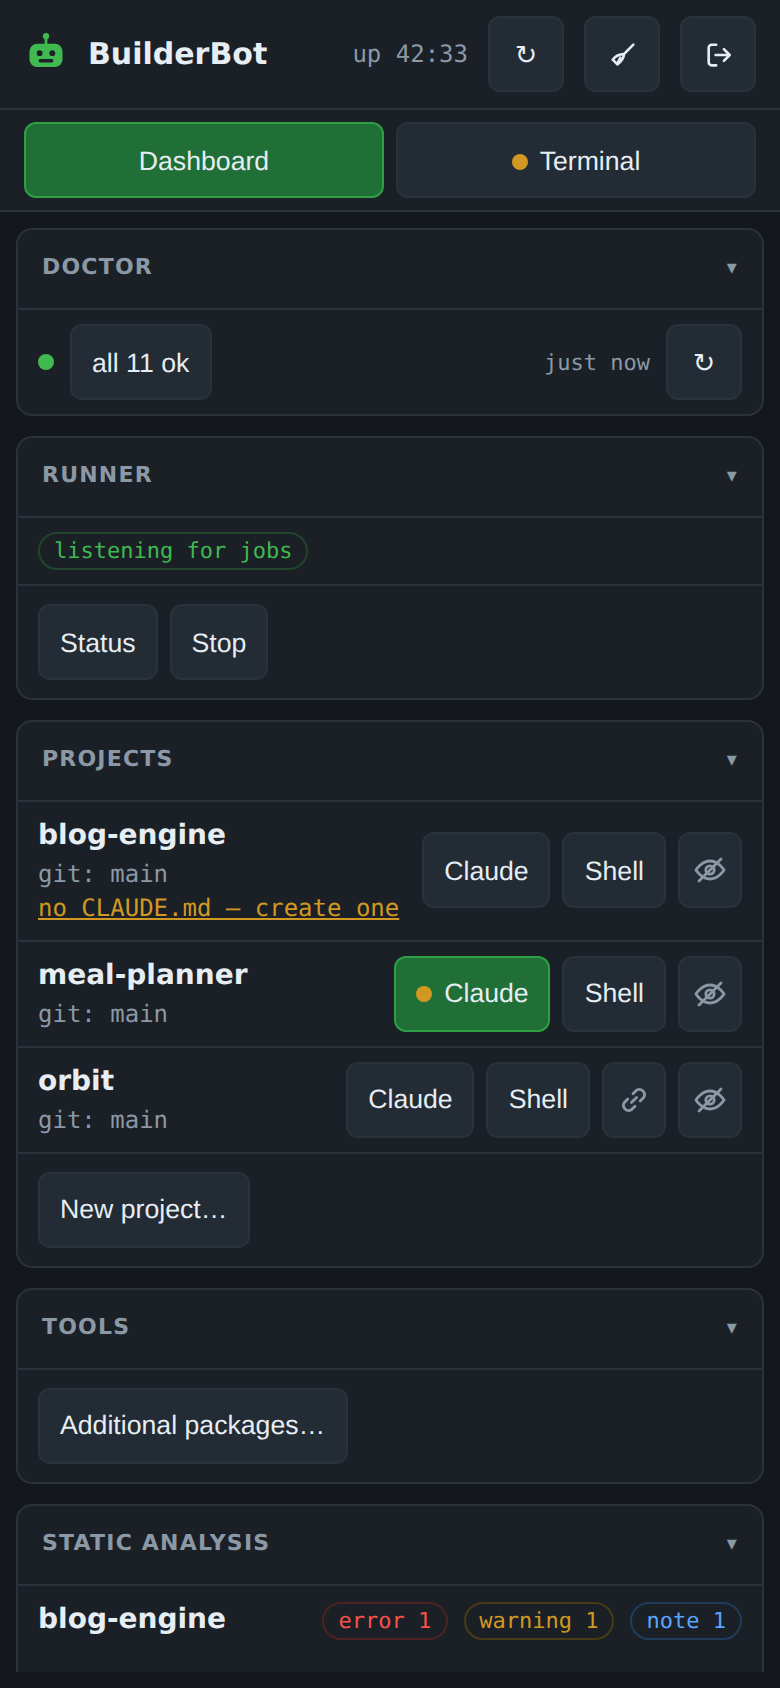
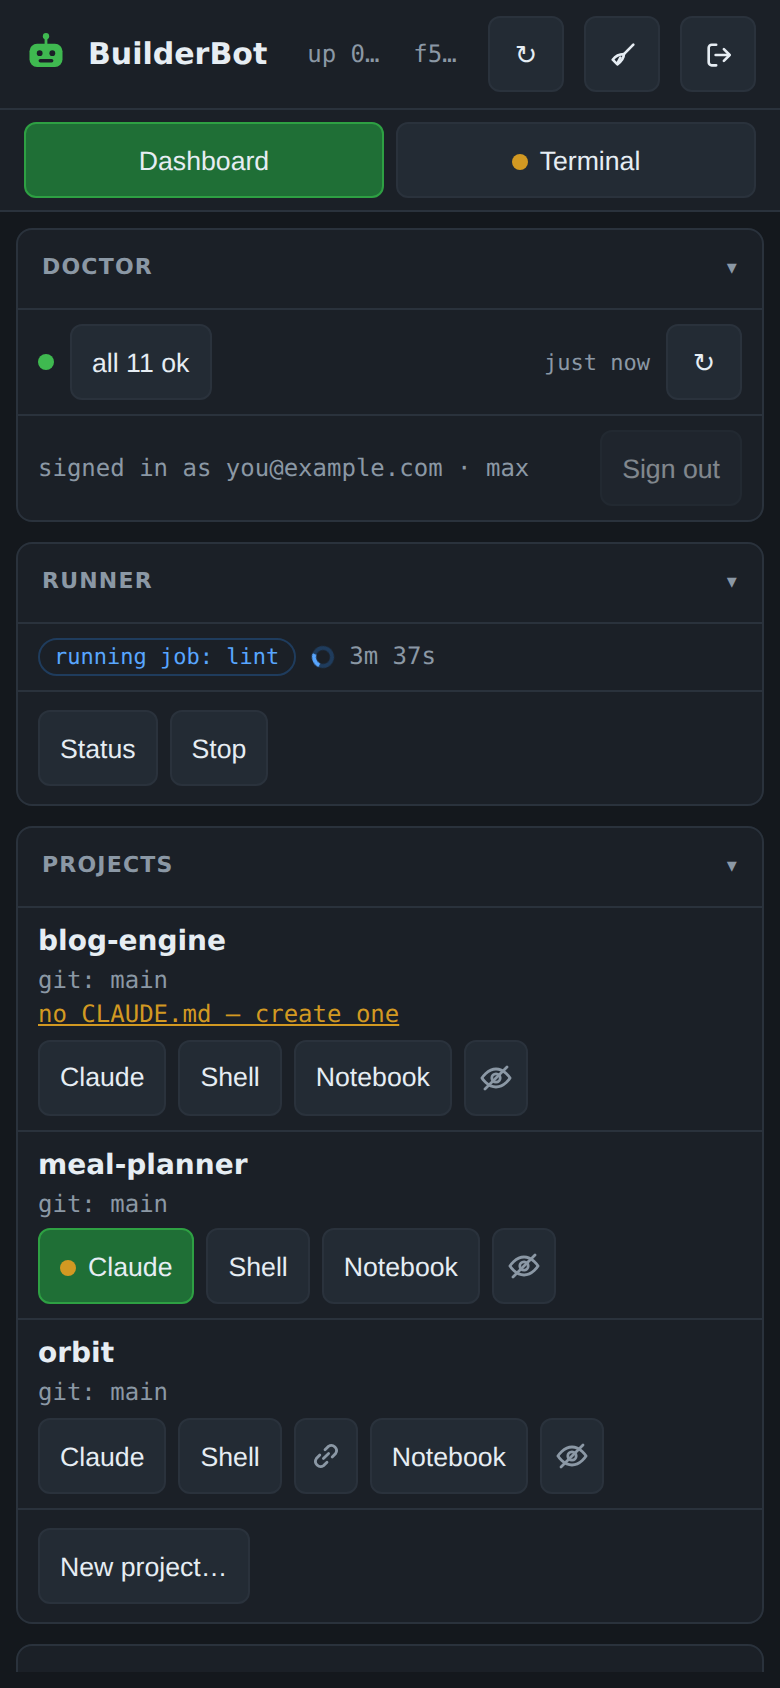
Reshoot the screenshots, and stop them carrying a real address
The sign-in line on the Doctor card arrived after tools/readme-shots.sh was
written, and the script never learned to stage it — so regenerating the
pictures read the operator's actual Claude login and put their email address
in the repository. It stubs `claude auth status` now, the way the test harness
does, and the card reads you@example.com.

Worth naming the shape rather than just the instance: a staged instance that
quietly photographs one real thing is worse than one that photographs none,
because nobody thinks to look at the parts that are supposed to be invented.

The pictures were also five weeks stale — no Notebook buttons, no Static
analysis card, a findings tab that no longer exists.

While checking the docs against what actually ships, the README turned out to
be describing a dashboard from several changes ago:

- "Three views under its tab strip" — there are four; Analysis was missing.
- "reachable from the checklist icon on its row" — it is a Notebook button,
  and it lights green while that project's notebook is open.
- "One notebook is open at a time: opening another project's replaces it" —
  which contradicted the sentence two lines above it, left behind when
  multiple notebooks landed.
- "Open findings report opens a document tab" — that button is gone; a Static
  analysis row opens the notebook's Analysis view instead.
- "✕ appears on the findings tab only" — document tabs generally now, and the
  notebook asks first if anything in it is unsaved.
[…]

diff --git a/README.md b/README.md
@@ -368,6 +368,7 @@ bb roadmap info N [M] "..."           attach the technical details to one, or st
 bb roadmap begin      work one out; `commit` records it as one change, `revert` undoes
 bb bug             the bug tracker: open bugs; `all`, `show N` for one in full
 bb bug find TEXT   search the reports themselves — area, repro and notes too
+bb bug begin       the same notebook batch `bb roadmap begin` opens; `commit`, `revert`
 bb bug add "..."   report one (--sev, --area, --repro, ...); `note N`, `fix N`,
                    `wontfix N`, `na N`, `reopen N`, `rm N`, `history`
 bb history         one search over the notebook's logs — roadmap, bugs, memory
@@ -1098,33 +1099,40 @@ a placeholder, and **+** starts over.
 - **Shell** opens *another* terminal at the project path every time you click
   it, so you can have several side by side. **+**, at the left of the tab
   strip, does the same for `/workspace`.
-- **Open findings report** opens a *document* tab, not a terminal. It is a
-  report to read; putting it through a PTY would only make it harder to.
+- **A Static analysis row** opens that project's notebook on its **Analysis**
+  view — a *document* tab, not a terminal. It is a report to read; putting it
+  through a PTY would only make it harder to. The whole-report findings tab it
+  replaced is gone.
 - **— on a tab minimizes it**, and asks nothing. The terminal keeps running
   and is listed under Sessions, where **Open** brings it back; a **Claude** tab
   is the same, the conversation carries on without a tab. Nothing is lost, so
   nothing is asked. **Middle-clicking** a terminal tab is the stronger thing,
   the way it is in a browser: it ends the session — after the same question
   the Sessions ✕ asks — and closes the tab with it.
-- **✕ appears on the findings tab only**, because a document has no session to
-  keep. It closes without asking too.
+- **✕ appears on document tabs**, the notebook and Analysis, because a document
+  has no session to keep. The notebook asks first if anything in it is unsaved;
+  nothing else does.
 ### The notebook
 
-Every project has one, reachable from the checklist icon on its row: a tab of
-its own, one per project, and as many open at once as you have projects —
+Every project has one, reachable from the **Notebook** button on its row: a tab
+of its own, one per project, and as many open at once as you have projects —
 each is its own instance, so what is half-typed in one survives working in
-another. Three views under its tab strip: **Memory** (what Claude remembers
-here, moved up from the fold it used to live in), the **Roadmap** (the shared
-list, renamed for what it is — design work and ordered plans), and **Bugs**.
+another, and the button lights green while that project's is open. Four views
+under its tab strip: **Memory** (what Claude remembers here, moved up from the
+fold it used to live in), the **Roadmap** (the shared list, renamed for what it
+is — design work and ordered plans), **Bugs**, and **Analysis** (the scanner's
+findings for this project alone).
+
+**Unsaved work does not cross those four.** Leaving a view asks, and answering
+yes throws the change away rather than carrying it to the next tab.
 
 **The roadmap** is `bb roadmap` in a terminal. Saving does not close it; the
 Save buttons simply go dead until there is something to save again, and the
 button beside them is **Revert**, which throws away what has not been saved
 and is dead whenever there is nothing to throw. It fills the pane rather than
 sitting in it, and the pane is the only thing that scrolls. Closing the tab
-asks first if anything is unsaved. One notebook is open at a time: opening another
-project's replaces it, because it is one panel that moves rather than one per
-project. It is the one surface here that **both sides write**:
+asks first if anything is unsaved. It is the one surface here that
+**both sides write**:
 you add "make the picker wrap properly", a session adds "a project can be
 created in one click and only deleted from a shell", and either of you can tick
 something off.
@@ -1137,7 +1145,8 @@ lived in the conversation and died with it.
 **Every change to a list is kept.** Both sides write these, and the list
 itself only ever shows the present tense — so *was that step always worded
 like that?* and *who dropped the third one?* had no answer at all.
-**History**, beside Reorder, is the answer: one line per change, newest
+**History**, at the top of the view where the other three tabs keep theirs, is
+the answer: one line per change, newest
 first, each with its date and time and whether you or a session made it. A
 reword shows both wordings, the old one struck through. `bb roadmap history`
 prints the same log in a terminal.
@@ -1353,6 +1362,11 @@ glued to the first. It rides on every send rather than being offered as a
 choice: a session about to act on a step is exactly who wants to know the plan
 around it moved, and by the time anything can be sent there is nothing unsaved
 left to keep quiet about — which is the next rule.
+
+The view opens the way the other three do — its one-line summary on the left
+and **History** on the right — with the field, **Add** and **Reorder** together
+on the row under it. Those three are the things that change the list; History
+only reads it.
 
 **Nothing can be sent while the panel is holding unsaved work.** The arrows go
 down, and the line above the list says which change is not on disk and that
@@ -1843,6 +1857,8 @@ scripts/
     memory.py                    everything behind the memory book: what Claude remembers per project
     projects.py                  new project / link to GitHub, and the worker that clones and pushes
     todo.py                      the roadmap; `bb roadmap` drives the same file
+    bugs.py                      the bug tracker; `bb bug` drives the same file
+    notebook.py                  one batch over both of those, so half of one cannot exist
     notify.py                    getting a line into a running Claude session, and knowing it landed
     signin.py                    the Claude sign-in, under a pty rather than in a terminal
     test/                        its Playwright suite — `bb dashboard test`, isolated
